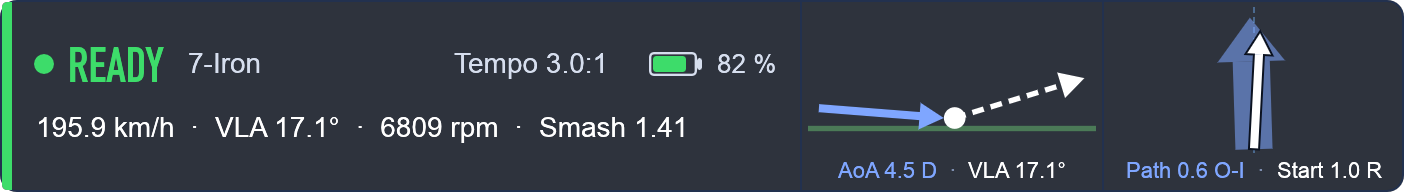
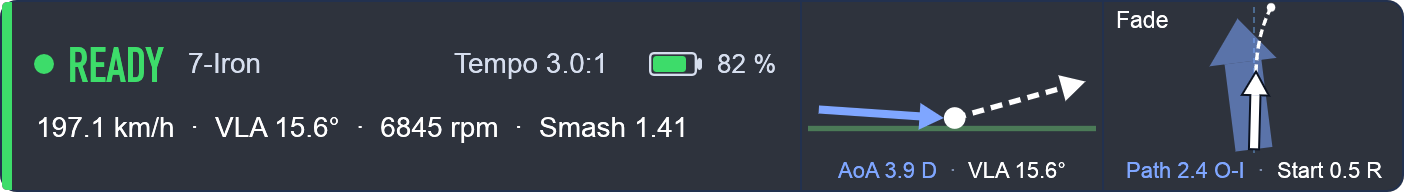
Shot shape: classification, explorer column and details, curve in the overlay
shape.rs names the shape from HLA (start) and spin axis (curve): straight,
draw, fade, hook, slice, push, pull and combinations. Shown as a column in
the shots table, in the details, and in the overlay's top view, where the
start arrow continues as the curving flight with the shape's name.
Right-hander's names for now.

diff --git a/src/bin/openlaunch-connect.rs b/src/bin/openlaunch-connect.rs
@@ -19,6 +19,7 @@ use openlaunch_connect::launcher;
 use openlaunch_connect::num;
 use openlaunch_connect::log;
 use openlaunch_connect::settings::{OverlayPos, OverlayStyle, Settings};
+use openlaunch_connect::shape::Shape;
 use openlaunch_connect::state::{self, R10Status};
 use openlaunch_connect::update;
 
@@ -1705,6 +1706,7 @@ struct OverlayContent {
 struct Impact {
     side: bool,
     top: bool,
+    spin_axis: f64,
     aoa: Option<f64>,
     vla: f64,
     path: Option<f64>,
@@ -1751,6 +1753,7 @@ impl OverlayContent {
         let impact = last.filter(|s| (style.impact_side || style.impact_top) && ready && s.delivered).map(|s| Impact {
             side: style.impact_side,
             top: style.impact_top,
+            spin_axis: s.ball.spin_axis,
             aoa: s.club.map(|c| c.angle_of_attack),
             vla: s.ball.vla,
             path: s.club.map(|c| c.path),
@@ -1869,6 +1872,12 @@ fn overlay_ui(p: &egui::Painter, rect: Rect, c: &OverlayContent) {
     p.text(line_pos, Align2::LEFT_CENTER, &c.line, FontId::proportional(14.0), c.line_color);
 }
 
+/// A shot shape's name in the language shown ("Straight" is the only one golfers translate).
+fn shape_name(shape: Shape) -> String {
+    let name = shape.name();
+    if name == "Straight" { tr("Straight").to_string() } else { name }
+}
+
 /// Draws one impact graphic into a panel (with or without its caption).
 type ImpactGraphic = fn(&egui::Painter, Rect, Impact, bool);
 
@@ -1977,10 +1986,31 @@ fn impact_top(p: &egui::Painter, r: Rect, i: Impact, labels: bool) {
         p.add(egui::Shape::convex_polygon(shaft, blue, Stroke::NONE));
         p.add(egui::Shape::convex_polygon(head, blue, Stroke::NONE));
     }
-    let (shaft, head, outline) = arrow(i.hla, 70.0, 6.0, 16.0, 14.0);
+    // The start arrow, then the ball's flight curving by the spin axis (dashed, also exaggerated):
+    // together they show the shot shape.
+    let start_len = 46.0;
+    let (shaft, head, outline) = arrow(i.hla, start_len, 6.0, 16.0, 14.0);
+    let a = (i.hla * 3.0).to_radians() as f32;
+    let heading = vec2(a.sin(), -a.cos());
+    let tip = at(59.0 + heading.x * start_len, 88.0 + heading.y * start_len);
+    let bend = (i.spin_axis as f32 * 2.2).clamp(-40.0, 40.0);
+    let control = at(59.0 + heading.x * (start_len + 22.0), 88.0 + heading.y * (start_len + 22.0));
+    let end = at(59.0 + heading.x * 84.0 + bend, 88.0 + heading.y * 84.0);
+    let curve: Vec<egui::Pos2> = (0..=16)
+        .map(|k| {
+            let t = k as f32 / 16.0;
+            (tip.to_vec2() * (1.0 - t) * (1.0 - t) + control.to_vec2() * 2.0 * t * (1.0 - t) + end.to_vec2() * t * t).to_pos2()
+        })
+        .collect();
+    p.extend(egui::Shape::dashed_line(&curve, Stroke::new(2.0 * s, WHITE), 4.0 * s, 3.0 * s));
+    p.circle_filled(end, 2.5 * s, WHITE);
     p.add(egui::Shape::convex_polygon(shaft, WHITE, Stroke::NONE));
     p.add(egui::Shape::convex_polygon(head, WHITE, Stroke::NONE));
     p.add(egui::Shape::closed_line(outline, Stroke::new(1.0, PAGE)));
+    if labels {
+        let shape = Shape::of(i.hla, i.spin_axis, false);
+        p.text(r.left_top() + vec2(6.0, 4.0), Align2::LEFT_TOP, shape_name(shape), FontId::proportional(11.5), WHITE);
+    }
     if labels {
         let mut parts: Vec<(String, Color32)> = i.path.map(|path| (format!("{} {}", tr("Path"), dir(path, "I-O", "O-I")), ICON)).into_iter().collect();
         parts.push((format!("Start {}", dir(i.hla, "R", "L")), WHITE));
@@ -2304,6 +2334,39 @@ mod tests {
             assert_eq!(harness.ctx.zoom_factor(), 1.0);
             save(&harness.render().unwrap(), name);
         }
+    }
+
+    /// Renders the top-view impact graphic for a few shot shapes side by side:
+    /// `OPENLAUNCH_SCREENSHOT_DIR=<dir> cargo test --bin openlaunch-connect impact_shapes -- --ignored`
+    #[test]
+    #[ignore = "writes screenshots; run on demand"]
+    fn impact_shapes() {
+        use egui_kittest::Harness;
+
+        i18n::set(Language::English);
+        // (HLA, spin axis, path): straight, push-draw, pull-fade, hook, slice.
+        let shots = [(0.3, 1.0, 0.5), (4.0, -6.0, 5.0), (-3.5, 7.0, -4.0), (-1.0, -14.0, 3.0), (1.0, 16.0, -6.0)];
+        let w = impact_panel_width(false);
+        let mut harness = Harness::builder()
+            .with_size(vec2(w * shots.len() as f32, OVERLAY_IMPACT_H))
+            .with_pixels_per_point(2.0)
+            .wgpu()
+            .build_ui(move |ui| {
+                if ui.ctx().fonts(|f| f.families().contains(&FontFamily::Name("cond".into()))) {
+                    for (k, &(hla, spin_axis, path)) in shots.iter().enumerate() {
+                        let r = Rect::from_min_size(pos2(k as f32 * w, 0.0), vec2(w, OVERLAY_IMPACT_H));
+                        ui.painter().rect_filled(r, 0.0, PAGE);
+                        let impact = Impact { side: false, top: true, spin_axis, aoa: None, vla: 15.0, path: Some(path), hla };
+                        impact_top(ui.painter(), r, impact, true);
+                    }
+                } else {
+                    setup_style(ui.ctx());
+                }
+            });
+        for _ in 0..3 {
+            harness.step();
+        }
+        save(&harness.render().unwrap(), "impact-shapes.png");
     }
 
     /// Layer transforms apply to every viewport: scaling the overlay must not shrink the main window.

diff --git a/src/shape.rs b/src/shape.rs
@@ -1,0 +1,111 @@
+//! Shot shape from the start direction (HLA) and the curve (spin axis), with the names golfers
+//! use: straight, draw, fade, hook, slice, push, pull and their combinations (push-draw …).
+//! Names are a right-hander's; a left-hander's shots are mirrored first.
+
+/// Start direction counts as straight within this many degrees of the target line.
+const STRAIGHT_START: f64 = 2.0;
+/// Spin axis (degrees) up to which the ball flies straight, and from which it hooks or slices.
+const NO_CURVE: f64 = 3.0;
+const HARD_CURVE: f64 = 10.0;
+
+#[derive(Debug, Clone, Copy, PartialEq, Eq)]
+pub enum Start {
+    Left,
+    Straight,
+    Right,
+}
+
+#[derive(Debug, Clone, Copy, PartialEq, Eq)]
+pub enum Curve {
+    HardLeft,
+    Left,
+    None,
+    Right,
+    HardRight,
+}
+
+#[derive(Debug, Clone, Copy, PartialEq, Eq)]
+pub struct Shape {
+    pub start: Start,
+    pub curve: Curve,
+}
+
+impl Shape {
+    /// From GSPro's HLA and spin axis (degrees, positive to the right / curving right).
+    #[must_use]
+    pub fn of(hla: f64, spin_axis: f64, left_handed: bool) -> Self {
+        let (hla, axis) = if left_handed { (-hla, -spin_axis) } else { (hla, spin_axis) };
+        let start = if hla <= -STRAIGHT_START {
+            Start::Left
+        } else if hla >= STRAIGHT_START {
+            Start::Right
+        } else {
+            Start::Straight
+        };
+        let curve = match axis {
+            a if a <= -HARD_CURVE => Curve::HardLeft,
+            a if a <= -NO_CURVE => Curve::Left,
+            a if a >= HARD_CURVE => Curve::HardRight,
+            a if a >= NO_CURVE => Curve::Right,
+            _ => Curve::None,
+        };
+        Self { start, curve }
+    }
+
+    /// The name, e.g. "Draw", "Push", "Pull-Hook", "Straight" (English; golfers use these in
+    /// German too, except for "Straight").
+    #[must_use]
+    pub fn name(self) -> String {
+        let start = match self.start {
+            Start::Left => Some("Pull"),
+            Start::Straight => None,
+            Start::Right => Some("Push"),
+        };
+        let curve = match self.curve {
+            Curve::HardLeft => Some("Hook"),
+            Curve::Left => Some("Draw"),
+            Curve::None => None,
+            Curve::Right => Some("Fade"),
+            Curve::HardRight => Some("Slice"),
+        };
+        match (start, curve) {
+            (None, None) => "Straight".into(),
+            (Some(s), None) => s.into(),
+            (None, Some(c)) => c.into(),
+            (Some(s), Some(c)) => format!("{s}-{c}"),
+        }
+    }
+}
+
+#[cfg(test)]
+mod tests {
+    use super::*;
+
+    #[test]
+    fn names_of_the_nine_classic_shapes() {
+        let name = |hla, axis| Shape::of(hla, axis, false).name();
+        assert_eq!(name(0.5, 1.0), "Straight");
+        assert_eq!(name(0.0, -5.0), "Draw");
+        assert_eq!(name(0.0, 6.0), "Fade");
+        assert_eq!(name(-1.0, -14.0), "Hook");
+        assert_eq!(name(1.0, 15.0), "Slice");
+        assert_eq!(name(3.5, 0.0), "Push");
+        assert_eq!(name(-3.0, 2.0), "Pull");
+        assert_eq!(name(4.0, -6.0), "Push-Draw");
+        assert_eq!(name(-4.0, 12.0), "Pull-Slice");
+    }
+
+    #[test]
+    fn left_handers_are_mirrored() {
+        // A left-hander's draw curves right and a push starts left.
+        assert_eq!(Shape::of(0.0, 5.0, true).name(), "Draw");
+        assert_eq!(Shape::of(-3.0, 0.0, true).name(), "Push");
+    }
+
+    #[test]
+    fn thresholds_are_inclusive() {
+        assert_eq!(Shape::of(2.0, 3.0, false).name(), "Push-Fade");
+        assert_eq!(Shape::of(1.9, 2.9, false).name(), "Straight");
+        assert_eq!(Shape::of(0.0, 10.0, false).name(), "Slice");
+    }
+}

diff --git a/src/bin/openlaunch-connect/explorer.rs b/src/bin/openlaunch-connect/explorer.rs
@@ -7,6 +7,7 @@ use openlaunch_connect::flight::{self, Flight};
 use openlaunch_connect::history::Stat;
 use std::rc::Rc;
 
+use openlaunch_connect::shape::Shape;
 use openlaunch_connect::settings::{Camera, DEFAULT_PAGE_NAMES, ExplorerPage, Metric, Tile, TileKind, TileSize};
 
 use super::*;
@@ -1359,7 +1360,7 @@ fn shots_table(ui: &mut egui::Ui, i: usize, ctx: &TileCtx) -> Option<Key> {
     let carry = format!("{}*", tr("Carry"));
     let total = format!("{}*", tr("Total"));
     // Header, width of the values and priority (lower first) of every column.
-    let all: [(&str, f32, u8); 13] = [
+    let all: [(&str, f32, u8); 14] = [
         (tr("Time"), if ctx.all_time { 84.0 } else { 52.0 }, 0),
         (tr("Club"), 24.0, 0),
         (&carry, 28.0, 0),
@@ -1373,6 +1374,7 @@ fn shots_table(ui: &mut egui::Ui, i: usize, ctx: &TileCtx) -> Option<Key> {
         (tr("Smash"), 30.0, 2),
         (tr("Face to Path"), 40.0, 7),
         (tr("Tempo"), 24.0, 8),
+        (tr("Shape"), 66.0, 3),
     ];
     let keep = fit_columns(ui, &all);
     let cols: Vec<(&str, f32)> = keep.iter().map(|&k| (all[k].0, all[k].1)).collect();
@@ -1395,6 +1397,7 @@ fn shots_table(ui: &mut egui::Ui, i: usize, ctx: &TileCtx) -> Option<Key> {
             s.smash().map_or("–".into(), |v| format!("{v:.2}")),
             c.map_or("–".into(), |c| dir(c.face_to_target - c.path, "O", "C")),
             s.tempo.map_or("–".into(), |t| format!("{:.1}", t.ratio())),
+            shape_name(Shape::of(s.ball.hla, s.ball.spin_axis, false)),
         ];
         Row {
             cells: keep.iter().map(|&k| cells[k].clone()).collect(),
@@ -1520,6 +1523,7 @@ fn details(ui: &mut egui::Ui, shot: Option<&ShotRecord>, ctx: &TileCtx) {
         ("HLA".into(), deg(s.ball.hla)),
         (tr("Total Spin").into(), format!("{:.0} rpm", s.ball.total_spin)),
         (tr("Spin Axis").into(), deg(s.ball.spin_axis)),
+        (tr("Shape").into(), shape_name(Shape::of(s.ball.hla, s.ball.spin_axis, false))),
     ];
     if let Some(c) = c {
         values.extend([

diff --git a/src/i18n.rs b/src/i18n.rs
@@ -200,6 +200,8 @@ fn de(en: &str) -> Option<&'static str> {
         "Language" => "Sprache",
         "System" => "System",
         "Interface" => "Oberfläche",
+        "Shape" => "Schlagform",
+        "Straight" => "Gerade",
         "Impact from the side" => "Treffmoment Seite",
         "Impact from above" => "Treffmoment Aufsicht",
         "Path" => "Bahn",

diff --git a/src/lib.rs b/src/lib.rs
@@ -13,6 +13,7 @@ pub mod log;
 pub mod mapping;
 pub mod notify;
 pub mod settings;
+pub mod shape;
 pub mod state;
 pub mod update;
 

diff --git a/CHANGELOG.md b/CHANGELOG.md
@@ -16,6 +16,9 @@ The format is based on [Keep a Changelog](https://keepachangelog.com/en/1.1.0/),
   default): next to the values, the club head arriving at the angle of attack and the ball leaving at the launch
   angle (side view), and a broad arrow for the club path with a narrow one for the start direction (top view, angles
   drawn three times larger), with the numbers underneath. Small and without numbers in the one-line overlay.
+- **Shot shape** (straight, draw, fade, hook, slice, push, pull and combinations like push-draw), from the start
+  direction and the spin axis: a column in the shots table, a value in the details, and in the overlay's top view
+  the start arrow continues as the ball's curving flight with the shape's name. Named for right-handers.
 - **Estimated carry and total distance** on the shots page, per shot and as averages per club (in metres or
   yards, chosen separately from the speed unit in Settings → Display). GSPro doesn't send its own results back,
   so they are estimated from the launch data (no wind, sea level) and marked with *; GSPro may show other numbers.

diff --git a/CLAUDE.md b/CLAUDE.md
@@ -18,6 +18,7 @@ Not affiliated with Garmin or GSPro – use trademarks descriptively only.
   - `engine.rs` – R10 thread (BLE, reconnect, events → status) and start of the GSPro thread; `test_shot()`, `demo_session()`
   - `flight.rs` – estimated ball flight from the launch data (`fly()`: drag/lift from the spin factor, 3D,
     no wind; rough roll-out) → carry, total, apex, lateral, descent, path. GSPro doesn't send its results back.
+  - `shape.rs` – shot shape from HLA and spin axis (`Shape::of`, names like "Push-Draw"; right-hander's names)
   - `gspro.rs` – OpenConnect client (`Link`), heartbeats, reconnect, reply parsing (codes 200/201/5xx)
   - `mapping.rs` – R10 data → OpenConnect (m/s → mph, **spin axis inverted**, back/side spin from total + axis), `Tempo`
   - `state.rs` – shared status for the GUI (R10/GSPro status, device, battery, last shot, session shots, club/hand, log)
